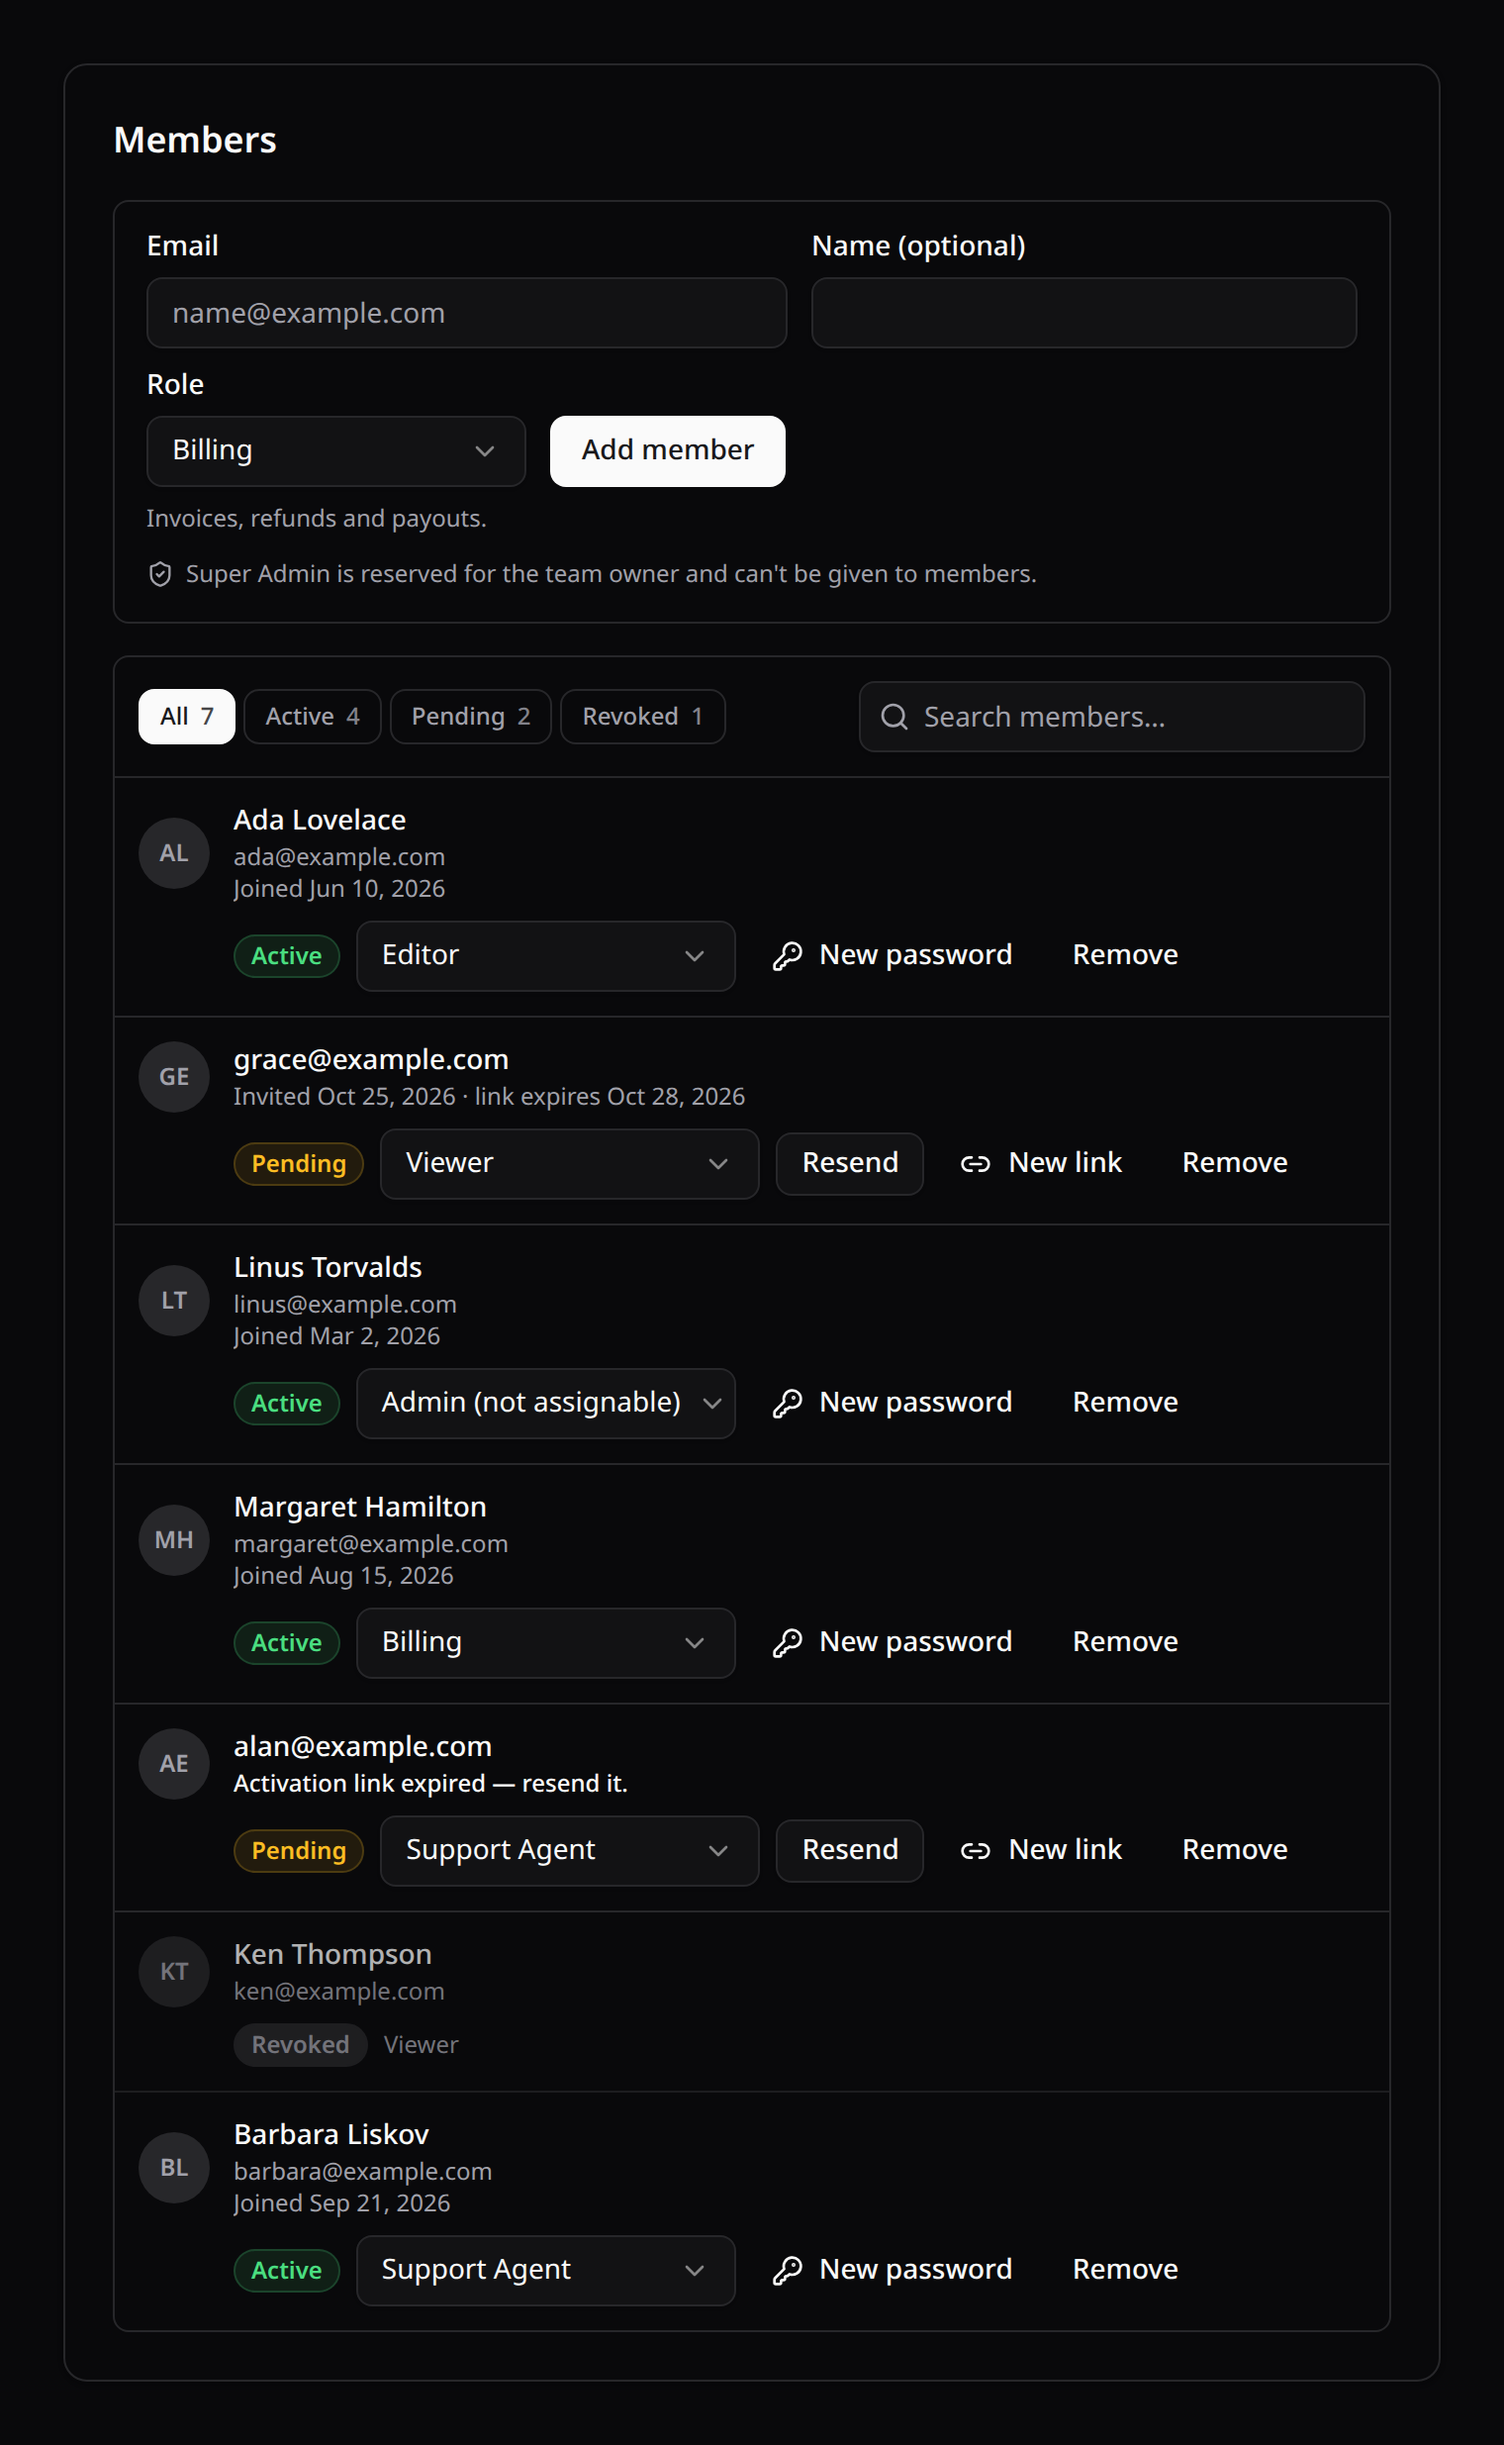
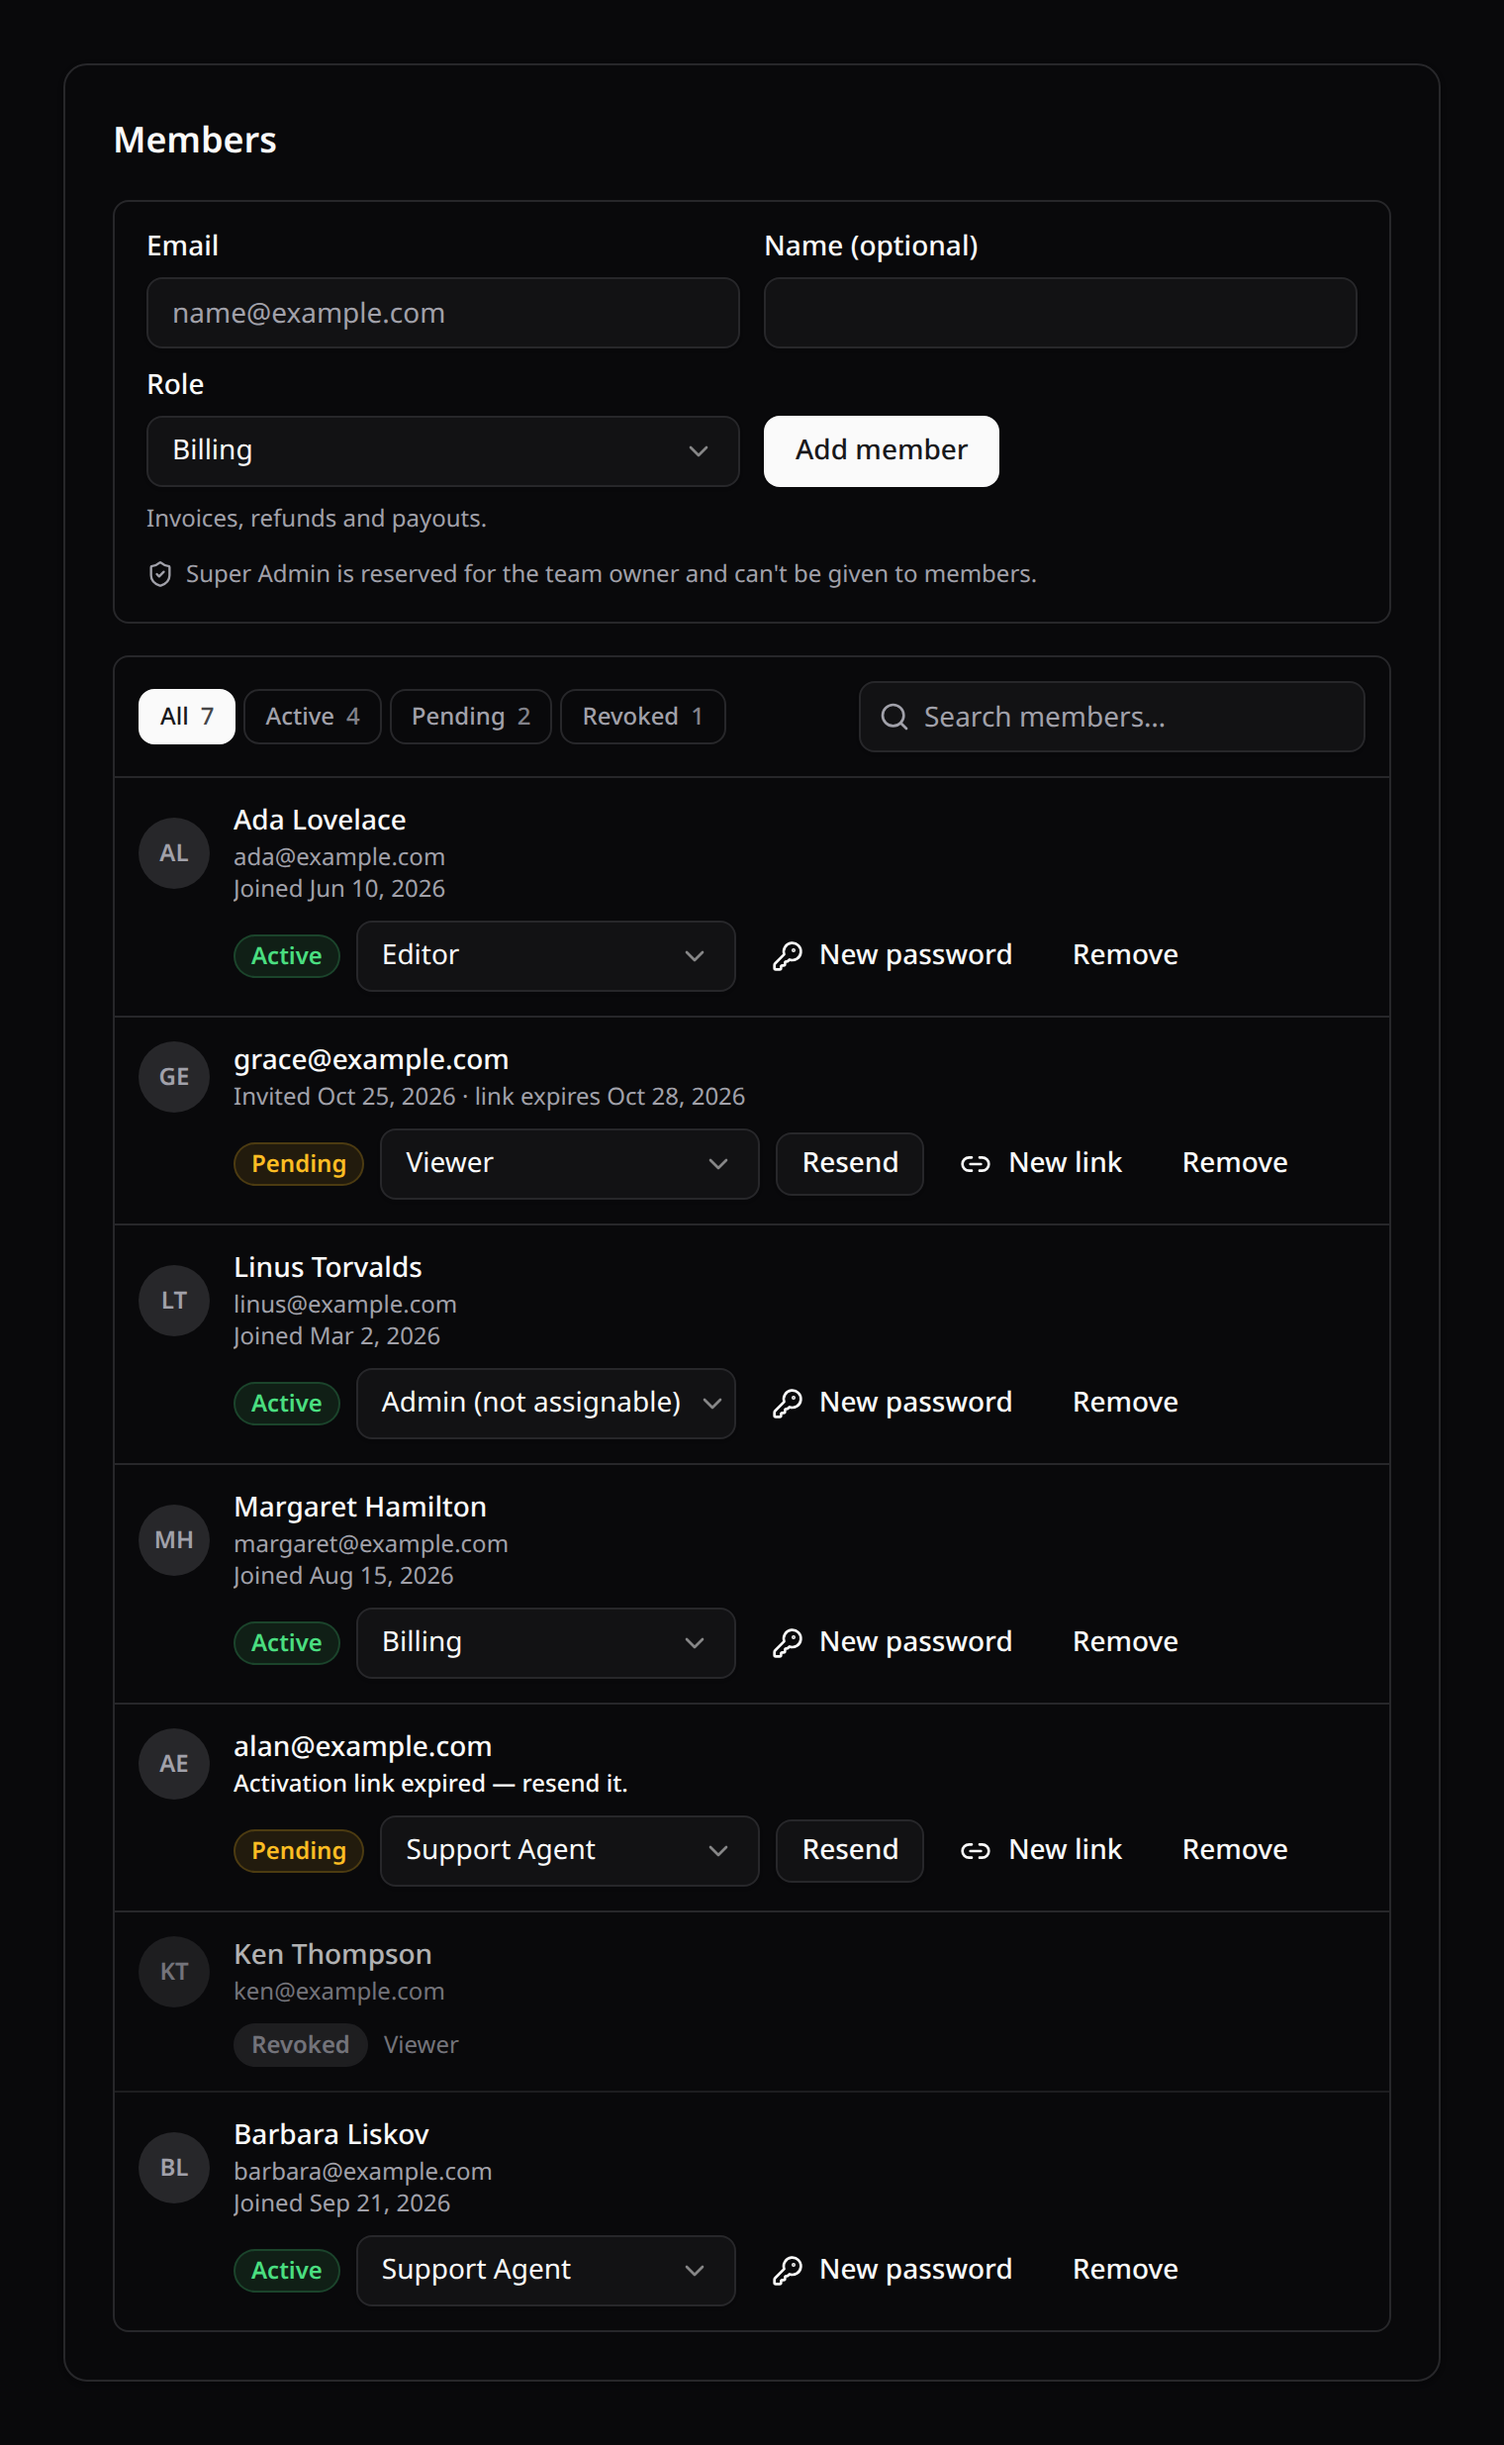
fix(membership): provisioning form lays out as a container grid at medium widths
In a ~700px card the submit button fell to its own row under a large gap.
Stacked when narrow, identifier | name and role | submit from @xl, one row
from @4xl. Found while upgrading the showcase app.

trail check: no conflicts.

Changed region(s): [[0.3401, 0.1559, 0.6803, 0.2182], [0.4947, 0.0935, 0.6803, 0.1247]]

diff --git a/resources/js/components/KinetixMemberProvisioner.vue b/resources/js/components/KinetixMemberProvisioner.vue
@@ -130,19 +130,19 @@ function submit(): void {
 </script>
 
 <template>
-    <!-- A container: the fields sit in one row once the FORM is wide enough
-       (not the viewport), stacked otherwise. items-start + a label on every
-       column keeps the inputs aligned; the submit button gets an invisible
-       label so its top aligns too. -->
+    <!-- A container: the layout follows the FORM's width, not the viewport's.
+       Stacked when narrow; two columns (identifier | name, role | submit)
+       from @xl; one row from @4xl. A label on every cell keeps the inputs
+       aligned; the submit cell gets an invisible one so its top aligns too. -->
     <form
         class="gap-3 @container flex flex-col"
         :aria-describedby="noRoles ? 'kinetix-member-no-roles' : undefined"
         @submit.prevent="submit"
     >
         <div
-            class="gap-3 @xl:flex-row @xl:flex-wrap @xl:items-start flex flex-col"
+            class="gap-3 @xl:grid-cols-2 @4xl:grid-cols-[minmax(0,1fr)_minmax(0,1fr)_12rem_auto] grid grid-cols-1 items-start"
         >
-            <div class="space-y-2 min-w-0 @xl:basis-56 @xl:flex-1">
+            <div class="space-y-2 min-w-0">
                 <KinetixLabel for="kinetix-member-email">
                     {{ identifierLabel }}
                 </KinetixLabel>
@@ -157,7 +157,7 @@ function submit(): void {
                 />
             </div>
 
-            <div class="space-y-2 min-w-0 @xl:basis-44 @xl:flex-1">
+            <div class="space-y-2 min-w-0">
                 <KinetixLabel for="kinetix-member-name">
                     {{ t('kinetix.member_name_optional') }}
                 </KinetixLabel>
@@ -171,7 +171,7 @@ function submit(): void {
                 />
             </div>
 
-            <div class="space-y-2 @xl:w-48">
+            <div class="space-y-2 min-w-0">
                 <KinetixLabel for="kinetix-member-role">
                     {{ t('kinetix.member_role') }}
                 </KinetixLabel>

diff --git a/CHANGELOG.md b/CHANGELOG.md
@@ -13,6 +13,15 @@ and this project adheres to [Semantic Versioning](https://semver.org/spec/v2.0.0
 
 ## [Unreleased]
 
+## [0.262.1] - 2026-10-27
+
+### Fixed
+
+- **Provisioning form at medium widths** (published): in a ~700px card the
+  submit button fell to a row of its own under a large gap. The form is now a
+  container grid: stacked when narrow, identifier | name and role | submit
+  from `@xl`, one row from `@4xl`.
+
 ## [0.262.0] - 2026-10-27
 
 ### Changed
